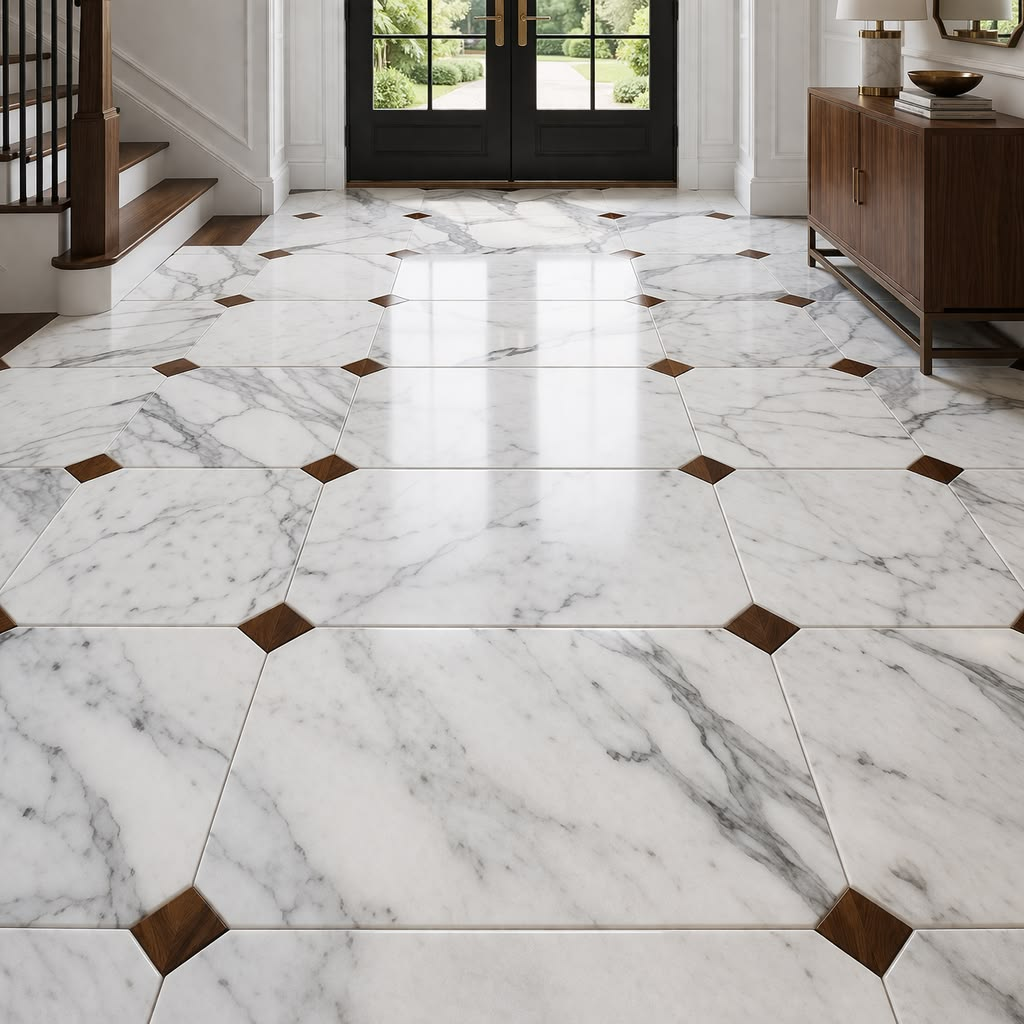
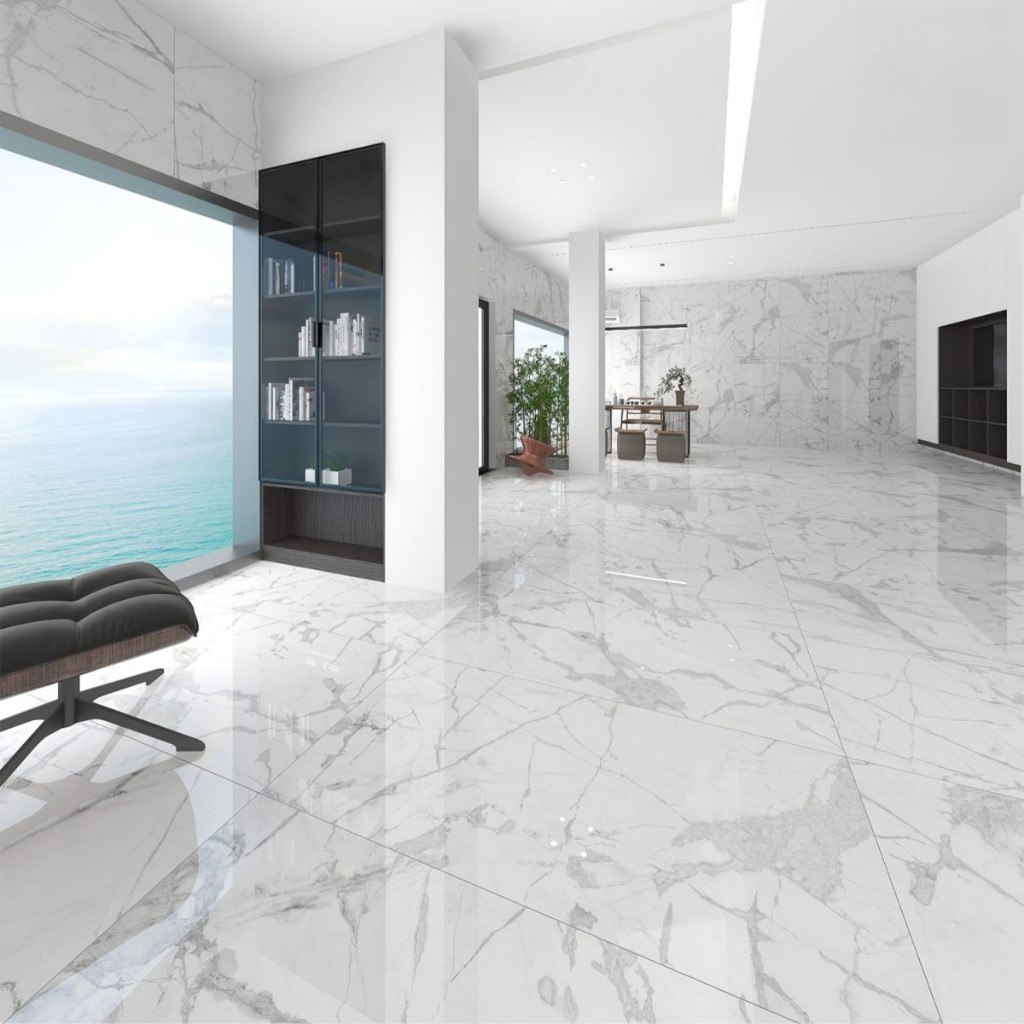
feat: swap floor service photo to glossy marble living room + pin Node 22.x

diff --git a/pages/index.js b/pages/index.js
@@ -119,7 +119,7 @@ const Home = (props) => {
                 </div>
                 <div className="service-row__image">
                   <img
-                    alt="Marble entryway floor with walnut diamond inlays"
+                    alt="Modern dining and living area with glossy white porcelain tile flooring"
                     src="/gallery/svc-floor.jpg"
                     className="service-row__img"
                   />